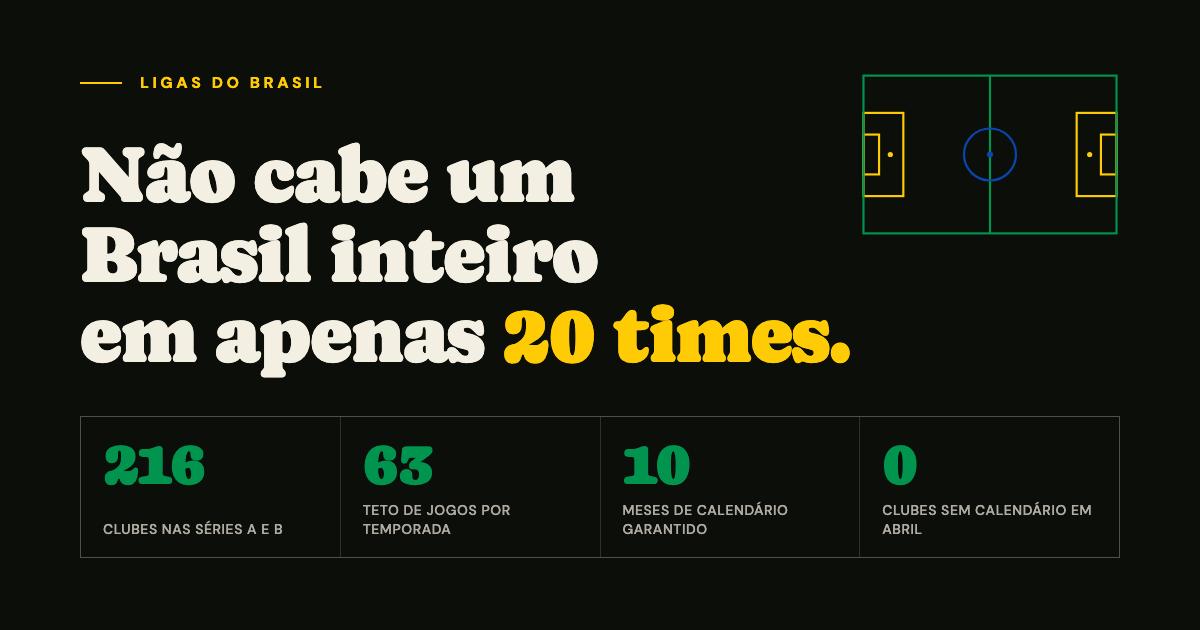
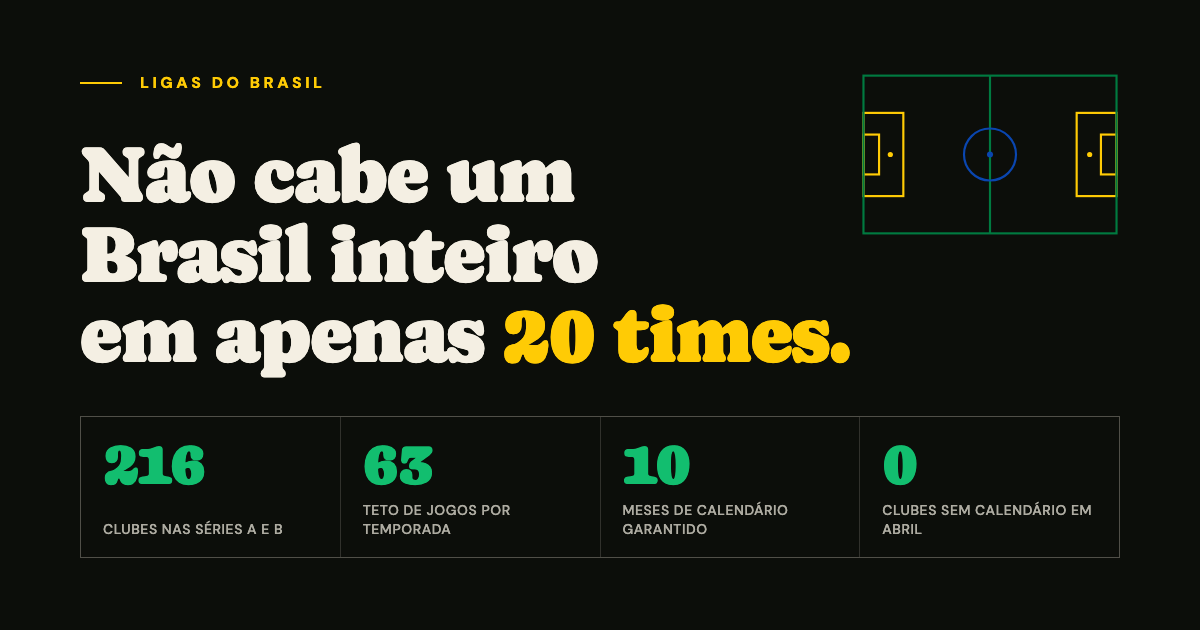
style: verde escuro + verde brilhante, refinos no chip escala
- Palette: --green agora #007A40 (era #00A85A, depois #00944E) — passa
  AA 4.5:1 no paper (4.74:1). Aplicado em tokens.css + hex hardcoded nos
  SVGs de brand nas 5 páginas + campo do hero + og.html.
- Novo token --green-bright #12BE6F (~8:1 no ink) usado nos números dos
  metric-cards da home e do OG image, pra pop maior em fundo escuro.
- Escala: chip do "2 clubes a mais" com texto paper em vez de green
  (contraste alto contra o ink). Números "20 / 18" (Clubes na elite) em
  peso 900 pra ganhar presença visual.
- Label da métrica no OG image atualizado pra "sem calendário em abril"
  (batia com a home mas o OG tinha ficado desatualizado).
- OG image regenerada com o novo verde-brilhante.

diff --git a/og.html b/og.html
@@ -10,7 +10,8 @@
     :root {
       --ink: #0C0E0A;
       --paper: #F4EFE3;
-      --green: #00944E;
+      --green: #007A40;
+      --green-bright: #12BE6F;
       --gold: #FFCB05;
       --blue: #0A46B0;
       --terra: #D8552F;
@@ -107,7 +108,7 @@
       font-size: 60px;
       line-height: 0.9;
       letter-spacing: -0.02em;
-      color: var(--green);
+      color: var(--green-bright);
       text-transform: none;
       font-variant-numeric: tabular-nums;
     }
@@ -120,8 +121,8 @@
     <rect x="4" y="72" width="18" height="46" stroke="#FFCB05" stroke-width="2.5"/>
     <rect x="250" y="47" width="46" height="96" stroke="#FFCB05" stroke-width="2.5"/>
     <rect x="278" y="72" width="18" height="46" stroke="#FFCB05" stroke-width="2.5"/>
-    <rect x="4" y="4" width="292" height="182" stroke="#00944E" stroke-width="2.5"/>
-    <line x1="150" y1="4" x2="150" y2="186" stroke="#00944E" stroke-width="2.5"/>
+    <rect x="4" y="4" width="292" height="182" stroke="#007A40" stroke-width="2.5"/>
+    <line x1="150" y1="4" x2="150" y2="186" stroke="#007A40" stroke-width="2.5"/>
     <circle cx="150" cy="95" r="30" stroke="#0A46B0" stroke-width="2.5"/>
     <circle cx="150" cy="95" r="3.5" fill="#0A46B0"/>
     <circle cx="35" cy="95" r="3" fill="#FFCB05"/>

diff --git a/index.html b/index.html
@@ -46,8 +46,8 @@
       <svg viewBox="0 0 26 18" fill="none" aria-hidden="true">
         <rect x="1" y="5" width="4" height="8" stroke="#FFCB05" stroke-width="1.6"/>
         <rect x="21" y="5" width="4" height="8" stroke="#FFCB05" stroke-width="1.6"/>
-        <rect x="1" y="1" width="24" height="16" stroke="#00944E" stroke-width="1.6"/>
-        <line x1="13" y1="1" x2="13" y2="17" stroke="#00944E" stroke-width="1.6"/>
+        <rect x="1" y="1" width="24" height="16" stroke="#007A40" stroke-width="1.6"/>
+        <line x1="13" y1="1" x2="13" y2="17" stroke="#007A40" stroke-width="1.6"/>
         <circle cx="13" cy="9" r="3.4" stroke="#0A46B0" stroke-width="1.6"/>
       </svg>
       Ligas do Brasil
@@ -83,8 +83,8 @@
           <rect x="4" y="72" width="18" height="46" stroke="#FFCB05" stroke-width="2.5"/>
           <rect x="250" y="47" width="46" height="96" stroke="#FFCB05" stroke-width="2.5"/>
           <rect x="278" y="72" width="18" height="46" stroke="#FFCB05" stroke-width="2.5"/>
-          <rect x="4" y="4" width="292" height="182" stroke="#00944E" stroke-width="2.5"/>
-          <line x1="150" y1="4" x2="150" y2="186" stroke="#00944E" stroke-width="2.5"/>
+          <rect x="4" y="4" width="292" height="182" stroke="#007A40" stroke-width="2.5"/>
+          <line x1="150" y1="4" x2="150" y2="186" stroke="#007A40" stroke-width="2.5"/>
           <circle cx="150" cy="95" r="30" stroke="#0A46B0" stroke-width="2.5"/>
           <circle cx="150" cy="95" r="3.5" fill="#0A46B0"/>
           <circle cx="35" cy="95" r="3" fill="#FFCB05"/>

diff --git a/assets/css/tokens.css b/assets/css/tokens.css
@@ -38,8 +38,9 @@
        Each section explicitly picks its bg/fg pair via .act-* classes. */
     --ink:        #0C0E0A;
     --paper:      #F4EFE3;
-    --green:      #00944E;
-    --green-deep: #046B38;
+    --green:        #007A40;
+    --green-deep:   #046B38;
+    --green-bright: #12BE6F;
     --gold:       #FFCB05;
     --blue:       #0A46B0;
     --terra:      #D8552F;

diff --git a/assets/css/home/escala.css b/assets/css/home/escala.css
@@ -52,7 +52,7 @@
     }
     .escala__stat--big dd {
       font-family: var(--font-sans);
-      font-weight: 700;
+      font-weight: 900;
       font-size: 2.4rem;
       line-height: 1;
     }
@@ -70,7 +70,7 @@
     }
     .escala__invert {
       background: var(--ink);
-      color: var(--green);
+      color: var(--paper);
       padding: 0 8px;
     }
   }

diff --git a/copa.html b/copa.html
@@ -38,8 +38,8 @@
       <svg viewBox="0 0 26 18" fill="none" aria-hidden="true">
         <rect x="1" y="5" width="4" height="8" stroke="#FFCB05" stroke-width="1.6"/>
         <rect x="21" y="5" width="4" height="8" stroke="#FFCB05" stroke-width="1.6"/>
-        <rect x="1" y="1" width="24" height="16" stroke="#00944E" stroke-width="1.6"/>
-        <line x1="13" y1="1" x2="13" y2="17" stroke="#00944E" stroke-width="1.6"/>
+        <rect x="1" y="1" width="24" height="16" stroke="#007A40" stroke-width="1.6"/>
+        <line x1="13" y1="1" x2="13" y2="17" stroke="#007A40" stroke-width="1.6"/>
         <circle cx="13" cy="9" r="3.4" stroke="#0A46B0" stroke-width="1.6"/>
       </svg>
       Ligas do Brasil

diff --git a/ligas.html b/ligas.html
@@ -39,8 +39,8 @@
       <svg viewBox="0 0 26 18" fill="none" aria-hidden="true">
         <rect x="1" y="5" width="4" height="8" stroke="#FFCB05" stroke-width="1.6"/>
         <rect x="21" y="5" width="4" height="8" stroke="#FFCB05" stroke-width="1.6"/>
-        <rect x="1" y="1" width="24" height="16" stroke="#00944E" stroke-width="1.6"/>
-        <line x1="13" y1="1" x2="13" y2="17" stroke="#00944E" stroke-width="1.6"/>
+        <rect x="1" y="1" width="24" height="16" stroke="#007A40" stroke-width="1.6"/>
+        <line x1="13" y1="1" x2="13" y2="17" stroke="#007A40" stroke-width="1.6"/>
         <circle cx="13" cy="9" r="3.4" stroke="#0A46B0" stroke-width="1.6"/>
       </svg>
       Ligas do Brasil

diff --git a/manifesto.html b/manifesto.html
@@ -60,7 +60,7 @@
             y="1"
             width="24"
             height="16"
-            stroke="#00944E"
+            stroke="#007A40"
             stroke-width="1.6"
           />
           <line
@@ -68,7 +68,7 @@
             y1="1"
             x2="13"
             y2="17"
-            stroke="#00944E"
+            stroke="#007A40"
             stroke-width="1.6"
           />
           <circle cx="13" cy="9" r="3.4" stroke="#0A46B0" stroke-width="1.6" />

diff --git a/timeline.html b/timeline.html
@@ -38,8 +38,8 @@
       <svg viewBox="0 0 26 18" fill="none" aria-hidden="true">
         <rect x="1" y="5" width="4" height="8" stroke="#FFCB05" stroke-width="1.6"/>
         <rect x="21" y="5" width="4" height="8" stroke="#FFCB05" stroke-width="1.6"/>
-        <rect x="1" y="1" width="24" height="16" stroke="#00944E" stroke-width="1.6"/>
-        <line x1="13" y1="1" x2="13" y2="17" stroke="#00944E" stroke-width="1.6"/>
+        <rect x="1" y="1" width="24" height="16" stroke="#007A40" stroke-width="1.6"/>
+        <line x1="13" y1="1" x2="13" y2="17" stroke="#007A40" stroke-width="1.6"/>
         <circle cx="13" cy="9" r="3.4" stroke="#0A46B0" stroke-width="1.6"/>
       </svg>
       Ligas do Brasil

diff --git a/assets/css/home/metric-cards.css b/assets/css/home/metric-cards.css
@@ -30,7 +30,7 @@
       font-weight: normal;
       font-size: clamp(3rem, 6vw, 4.75rem);
       line-height: 0.85;
-      color: var(--green);
+      color: var(--green-bright);
       font-variant-numeric: tabular-nums;
     }
 